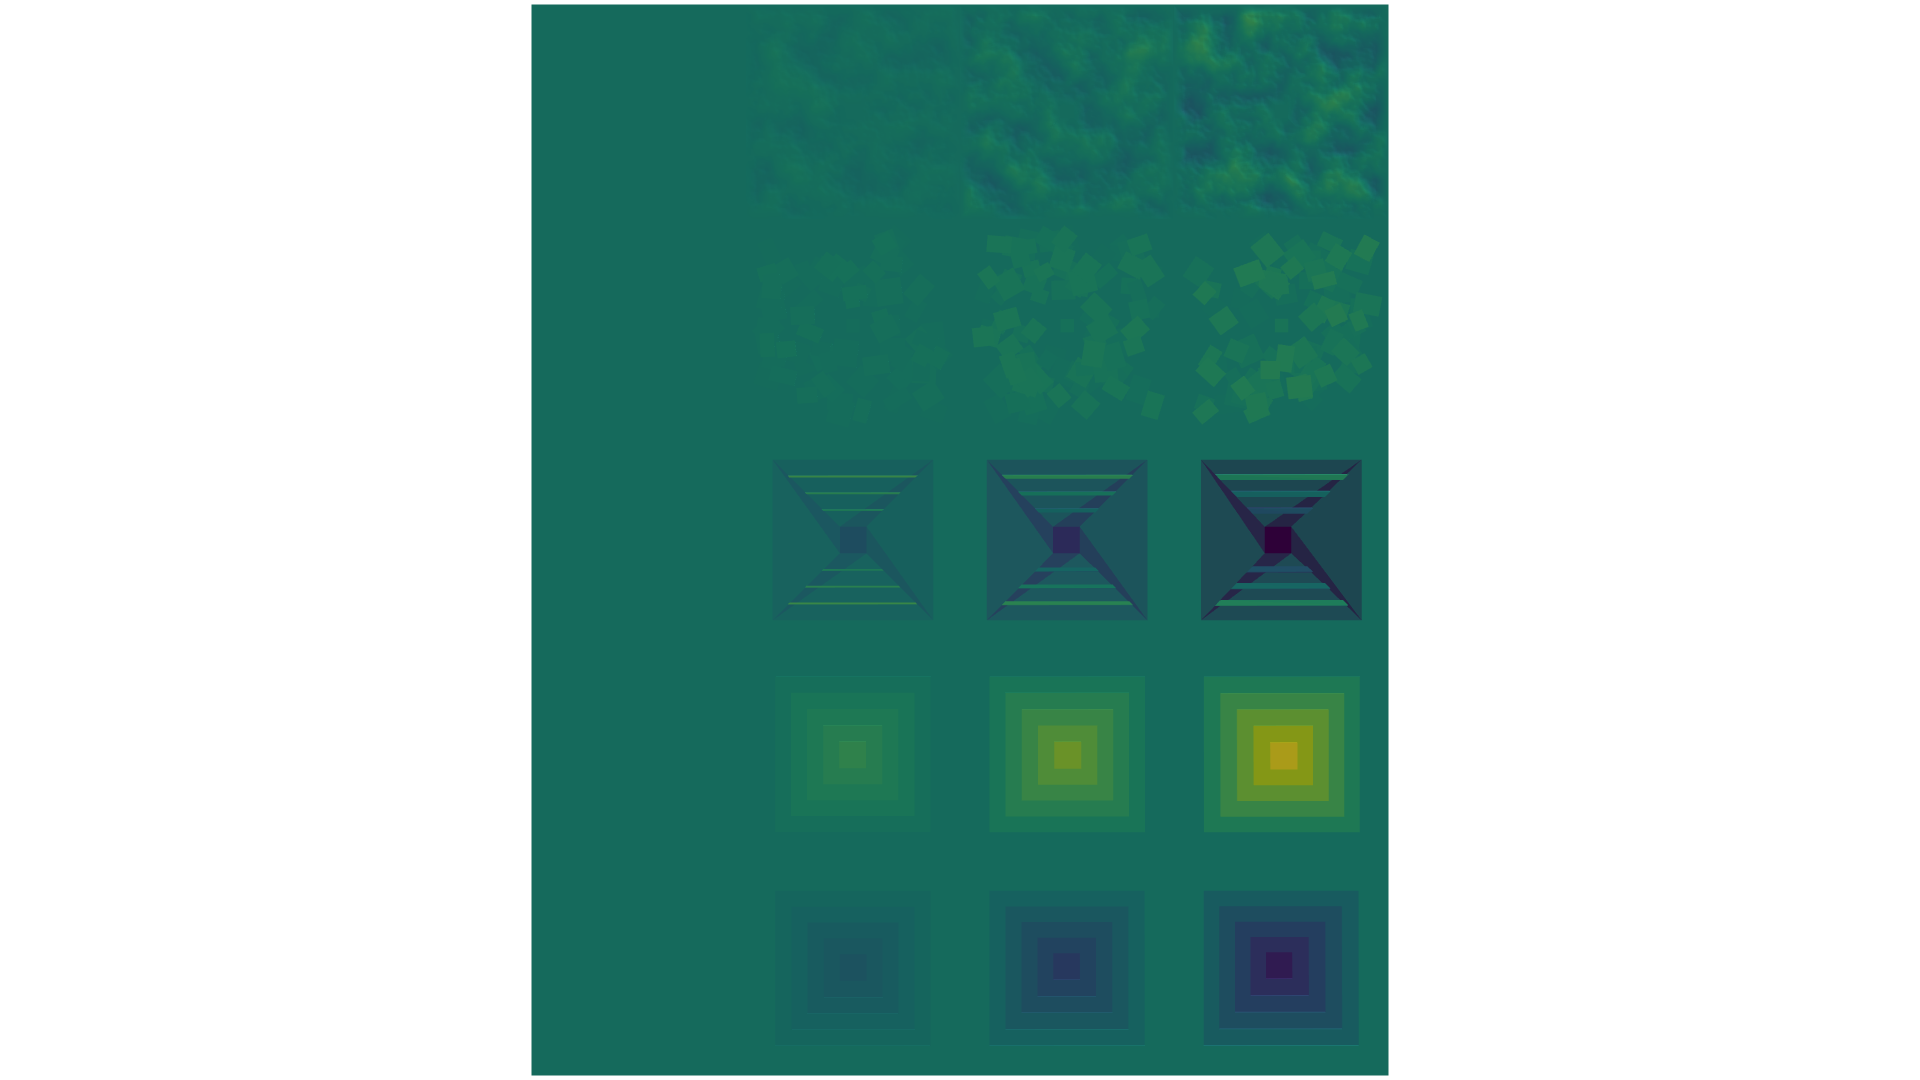
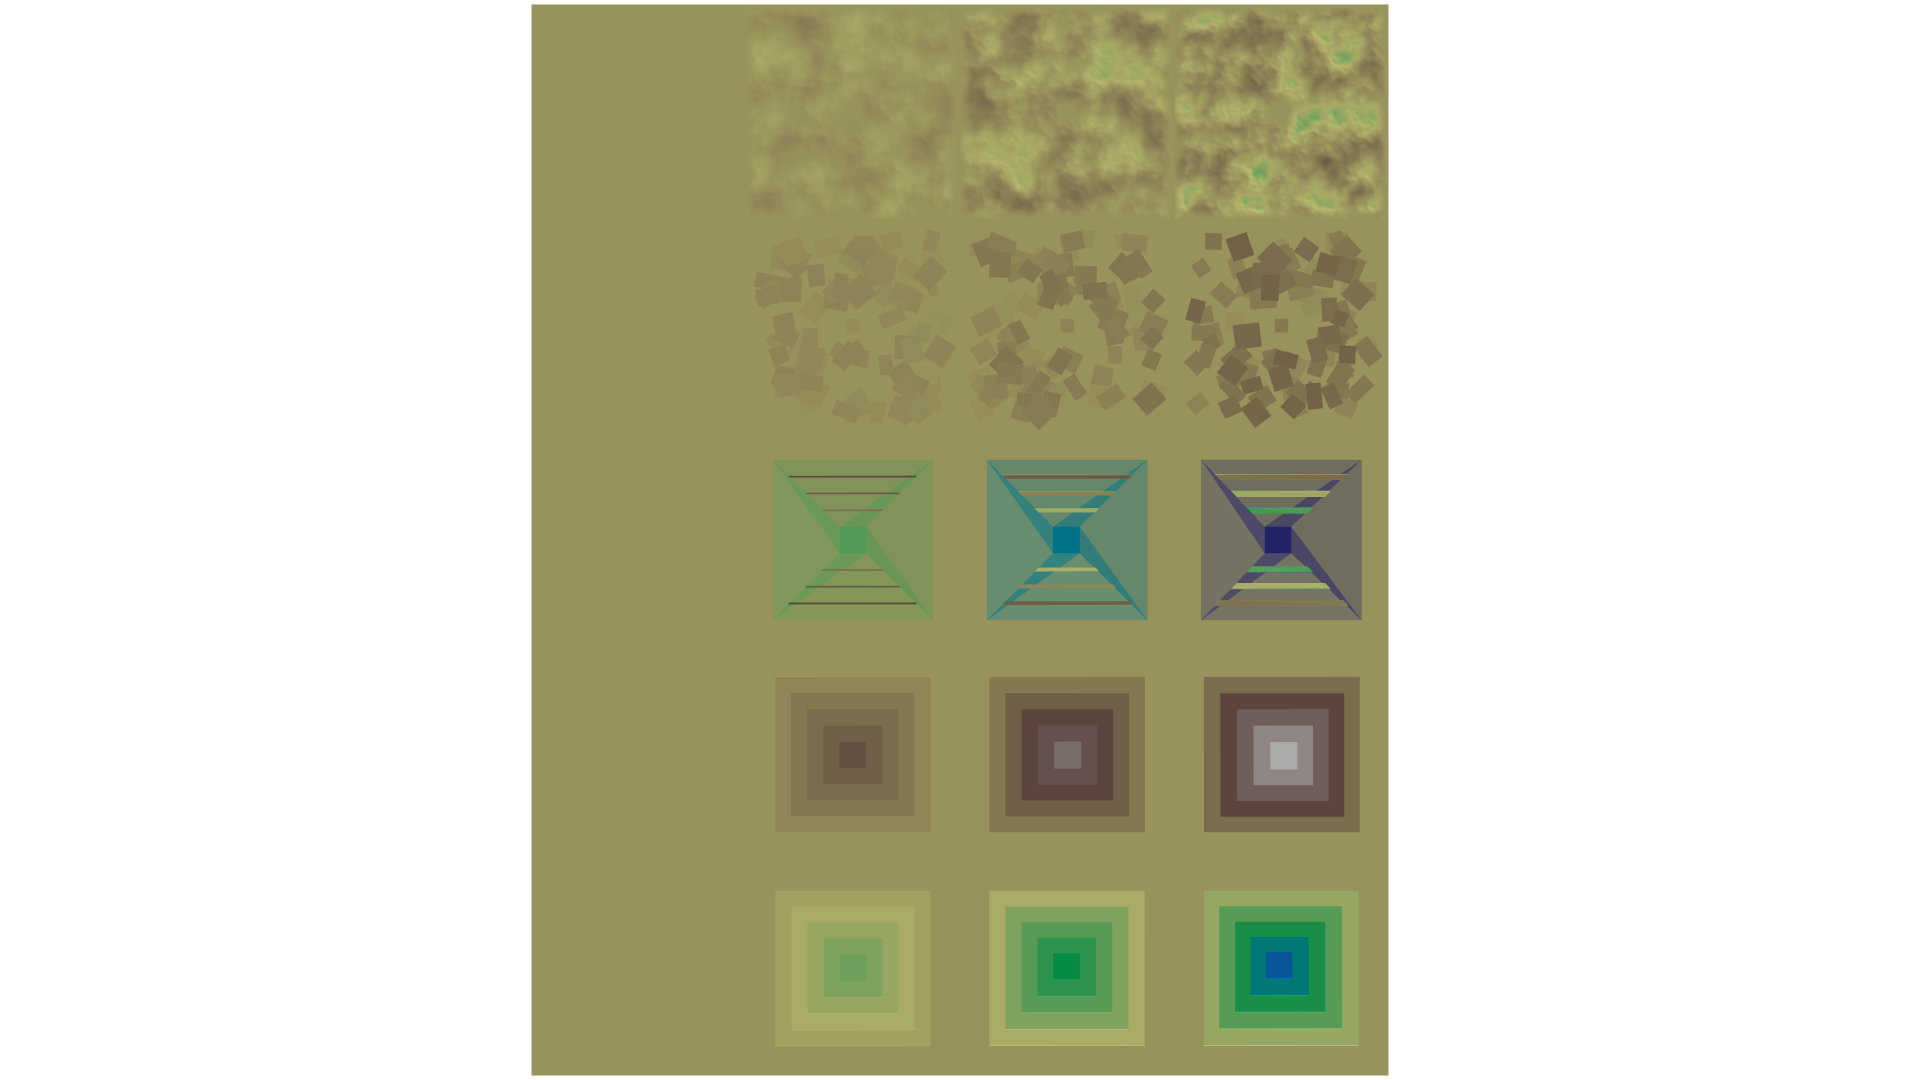
Update from virridis cmap to terrain cmap

diff --git a/generate_terrains.py b/generate_terrains.py
@@ -75,7 +75,7 @@ world_mesh = trimesh.util.concatenate(meshes)
 
 # Display mesh with colormap along the Z axis
 world_mesh.visual.vertex_colors = trimesh.visual.interpolate(
-    world_mesh.vertices[:, 2], color_map="viridis"
+    world_mesh.vertices[:, 2], color_map="terrain"
 )
 scene = trimesh.Scene(world_mesh)
 # scene.show()
